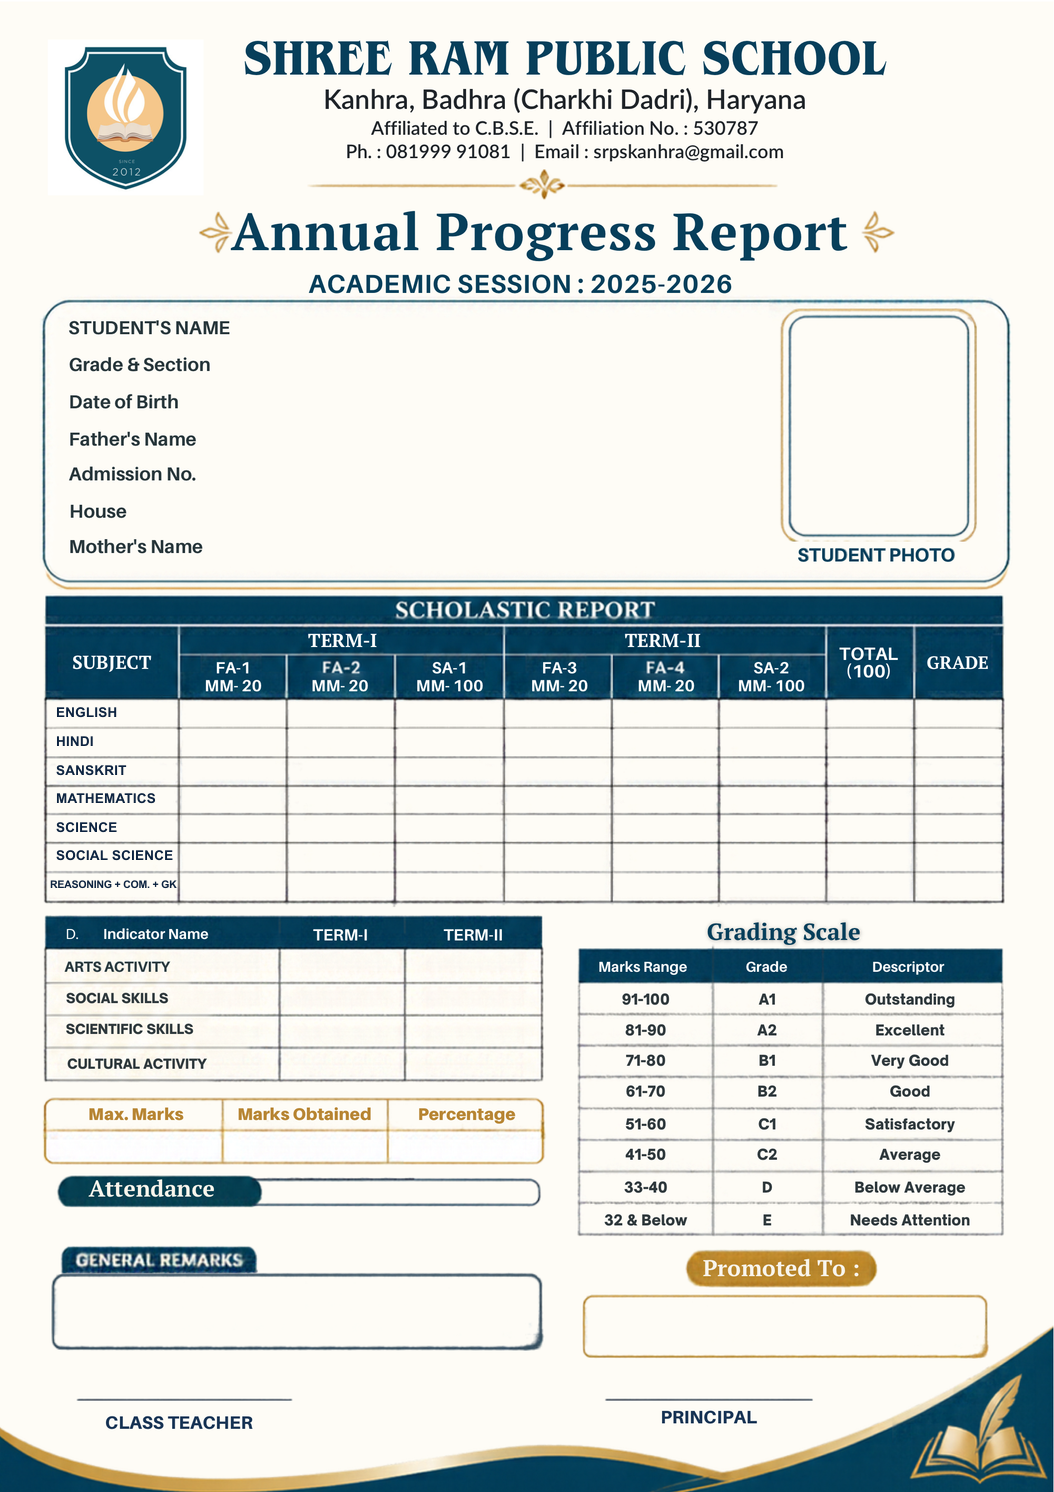
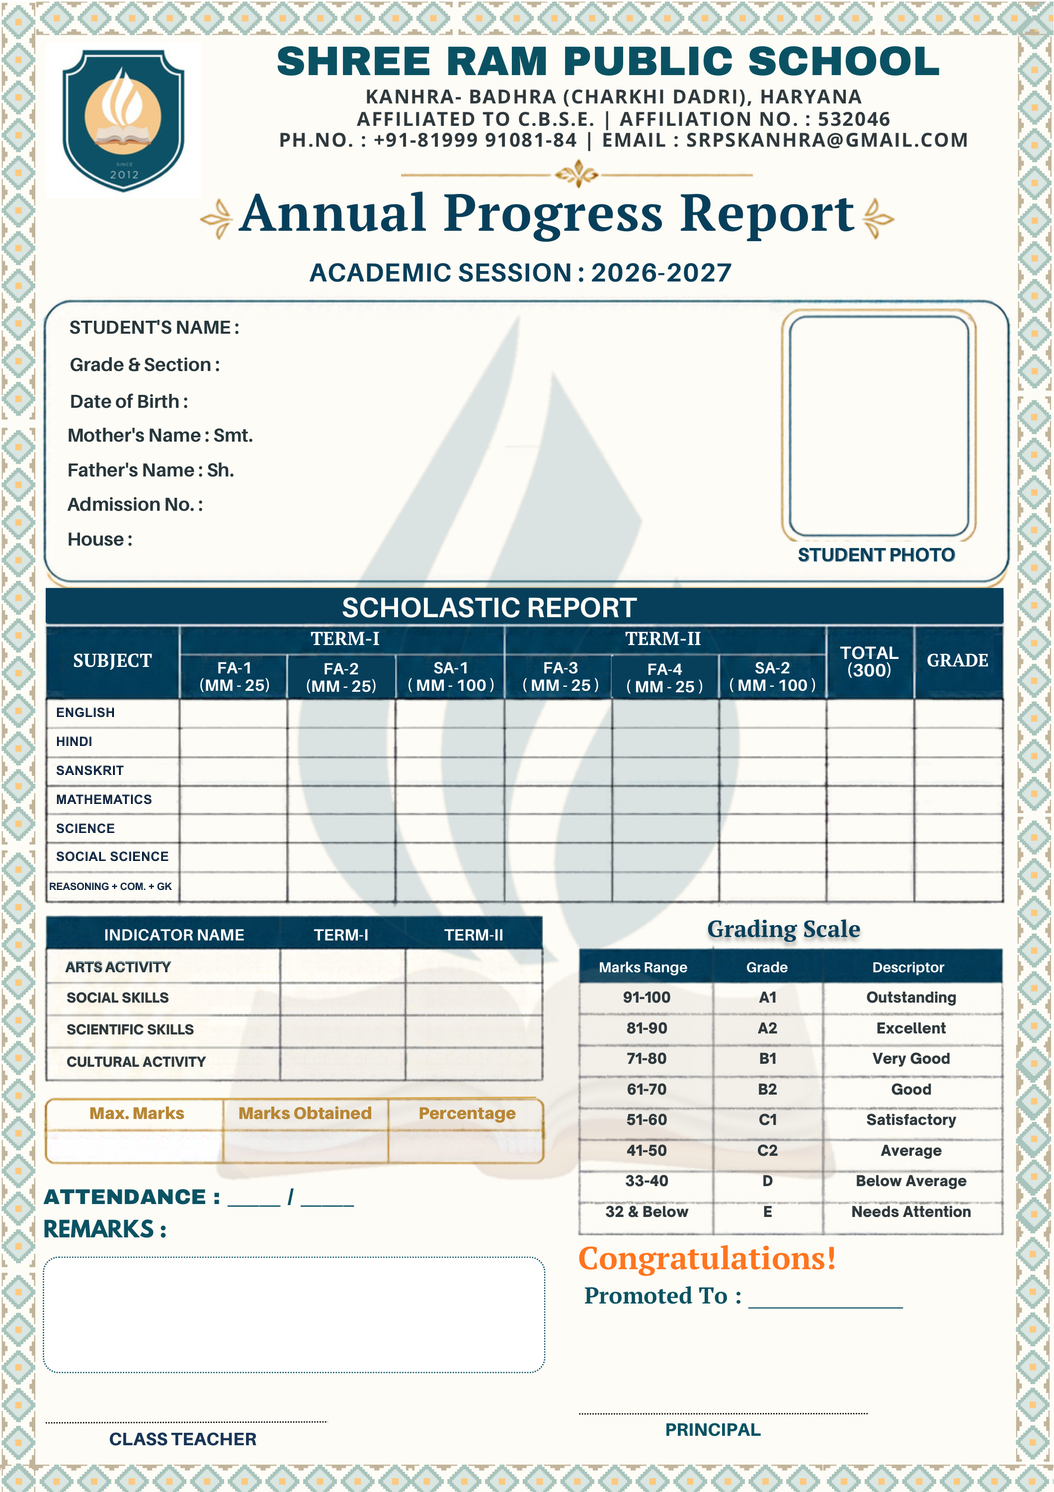
feat(report): apply exact updated single-page report template with 25/25/100 marks scheme and aligned fields

diff --git a/server/test/engine.test.js b/server/test/engine.test.js
@@ -34,6 +34,29 @@ test("Two full terms yield 1400, 100% and pass", () => {
   assert.equal(c.percentage, 100);
   assert.equal(c.result, "PASS");
 });
+test("Single-page two full terms yield 2100, 100% and pass", () => {
+  const singleMarks = {
+    term1: Object.fromEntries(
+      DEFAULT_CONFIG.subjects.map((s) => [
+        s.id,
+        { fa1: 25, fa2: 25, sa1: 100 },
+      ]),
+    ),
+    term2: Object.fromEntries(
+      DEFAULT_CONFIG.subjects.map((s) => [
+        s.id,
+        { fa3: 25, fa4: 25, sa2: 100 },
+      ]),
+    ),
+  };
+  const c = calculate(singleMarks);
+  assert.equal(c.total, 2100);
+  assert.equal(c.maximum, 2100);
+  assert.equal(c.percentage, 100);
+  assert.equal(c.result, "PASS");
+  assert.equal(c.subjects.english.subTotal, 300);
+  assert.equal(c.subjects.english.grade, "A1");
+});
 test("Grade thresholds and decimal rounding are consistent", () => {
   for (const [m, g] of [
     [100, "A1"],

diff --git a/shared/engine.js b/shared/engine.js
@@ -28,13 +28,13 @@ export const LEGACY_COMPONENTS = [
   { id: "exam", label: "Half yearly exam", max: 80 },
 ];
 export const TERM1_COMPONENTS = [
-  { id: "fa1", label: "FA-1", max: 20 },
-  { id: "fa2", label: "FA-2", max: 20 },
+  { id: "fa1", label: "FA-1", max: 25 },
+  { id: "fa2", label: "FA-2", max: 25 },
   { id: "sa1", label: "SA-1", max: 100 },
 ];
 export const TERM2_COMPONENTS = [
-  { id: "fa3", label: "FA-3", max: 20 },
-  { id: "fa4", label: "FA-4", max: 20 },
+  { id: "fa3", label: "FA-3", max: 25 },
+  { id: "fa4", label: "FA-4", max: 25 },
   { id: "sa2", label: "SA-2", max: 100 },
 ];
 export const COMPONENTS = [

diff --git a/client/src/main.jsx b/client/src/main.jsx
@@ -2923,9 +2923,9 @@ function Studio({
                 </table>
               </div>
               <div className="entry-legend">
-                <span>FA: Formative Assessment (20)</span>
+                <span>FA: Formative Assessment (25)</span>
                 <span>SA: Summative Assessment (100)</span>
-                <span>Term Max: 140 · Total: 280 (Scaled to 100)</span>
+                <span>Term Max: 150 · Subject Total: 300</span>
               </div>
               {!locked && (
                 <button

diff --git a/shared/report-template.js b/shared/report-template.js
@@ -90,7 +90,7 @@ export function reportValues(student, report, config, user = {}) {
       "";
 
     const subCalc = calc.subjects?.[s.id];
-    values[`total.${s.id}`] = subCalc?.complete ? String(subCalc.total100) : "—";
+    values[`total.${s.id}`] = subCalc?.complete ? String(subCalc.subTotal) : "—";
     values[`grade.${s.id}`] = subCalc?.complete ? subCalc.grade : "—";
   }
 
